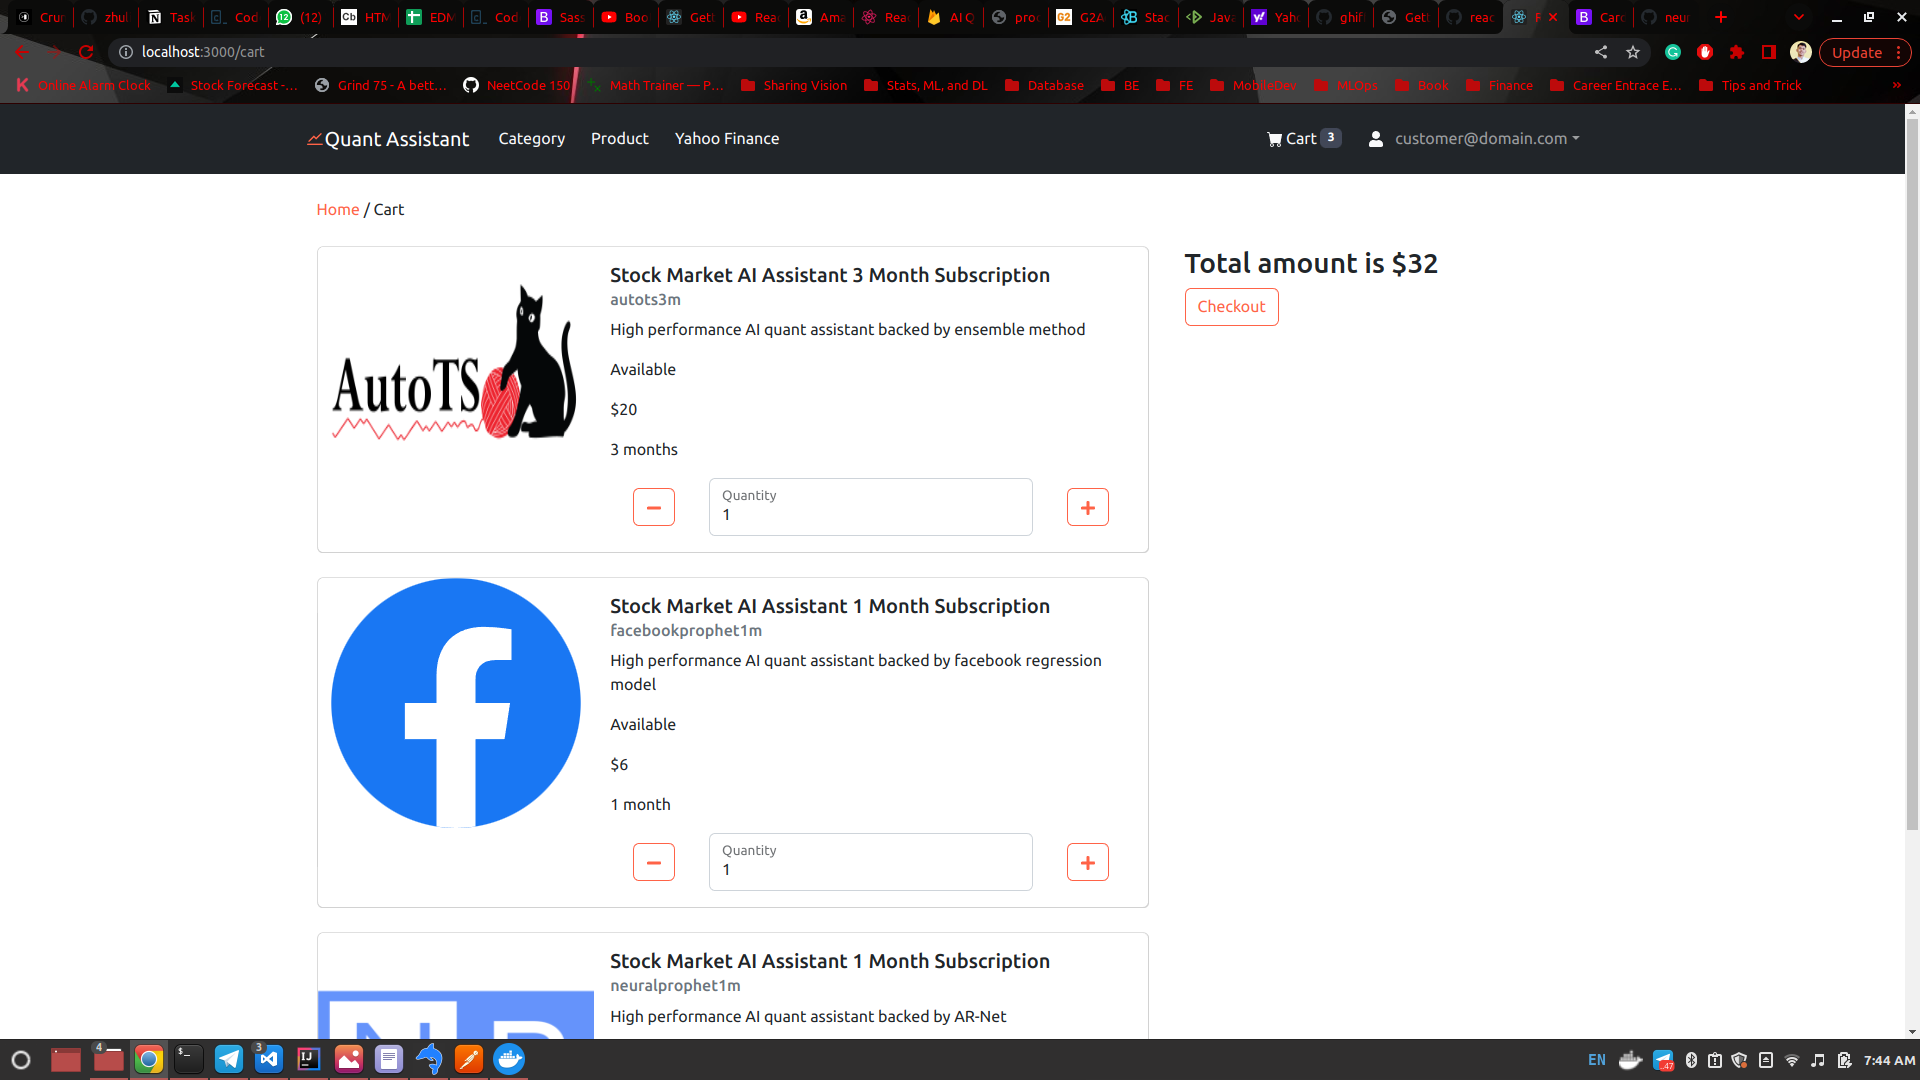
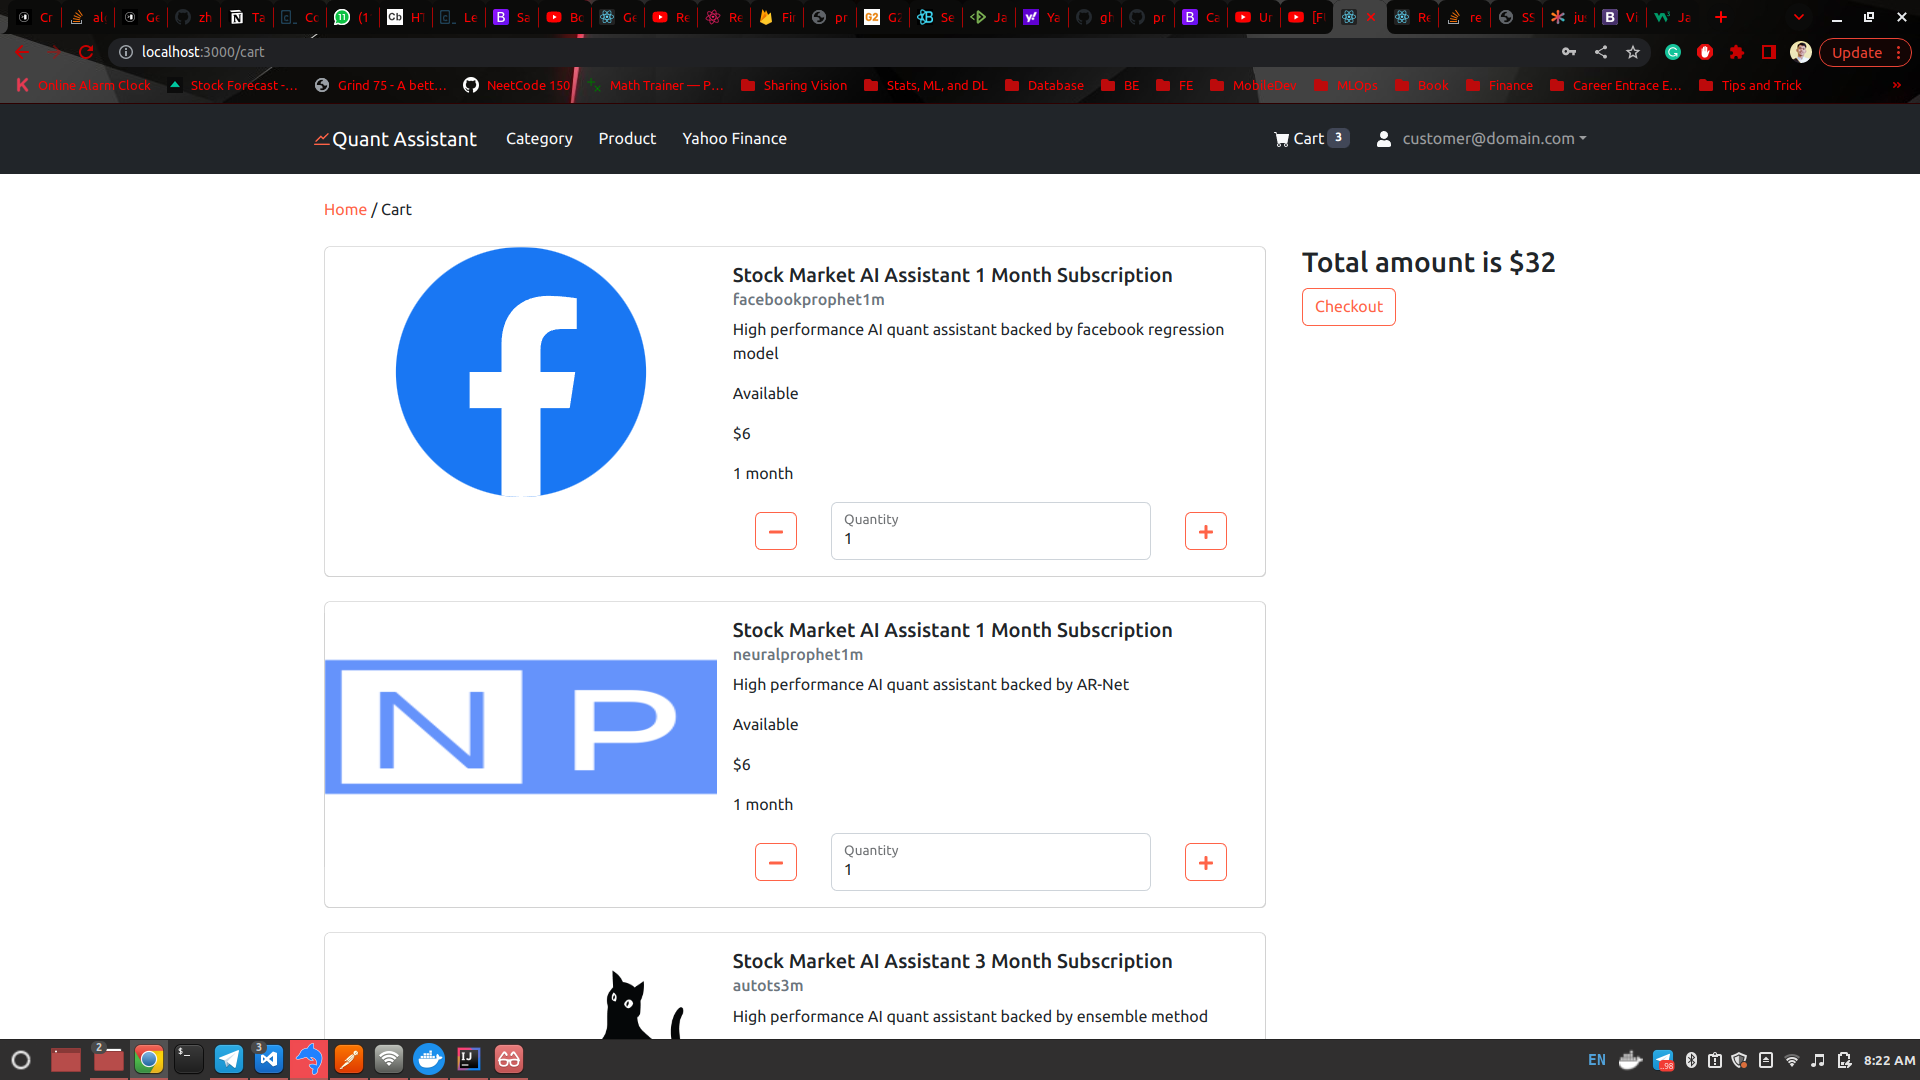
v1: retouch image proportion in cart page

diff --git a/frontend_web_store/src/components/cart/CartOrderDetail.js b/frontend_web_store/src/components/cart/CartOrderDetail.js
@@ -149,7 +149,7 @@ export default function CartOrderDetail({
       <div className="col">
         <div className="card w-100">
           <div className="row g-0">
-            <div className="col col-4">
+            <div className="col col-5">
               <img
                 src={
                   product.productImage
@@ -162,7 +162,7 @@ export default function CartOrderDetail({
                 overflow="hidden"
               />
             </div>
-            <div className="col col-8">
+            <div className="col col-7">
               <div className="card-body d-flex flex-column justify-content-between">
                 <div className="card-description">
                   <h5 className="card-title">{product.productName}</h5>

diff --git a/frontend_web_store/src/pages/main/CartPage.js b/frontend_web_store/src/pages/main/CartPage.js
@@ -104,13 +104,13 @@ export default function CartPage() {
           <>
             <div className="container mb-3">
               <div className="row">
-                <div className="col col-8">
+                <div className="col col-9">
                   <CartOrderDetailList
                     cartOrderDetails={cartOrderDetails}
                     setCartOrderDetails={setCartOrderDetails}
                   />
                 </div>
-                <div className="col col-4 flex-column">
+                <div className="col col-3 flex-column">
                   <h3>Total amount is ${cartOrderDetailTotalPrice}</h3>
                   <Button variant="outline-primary" onClick={handleCheckout}>
                     Checkout
